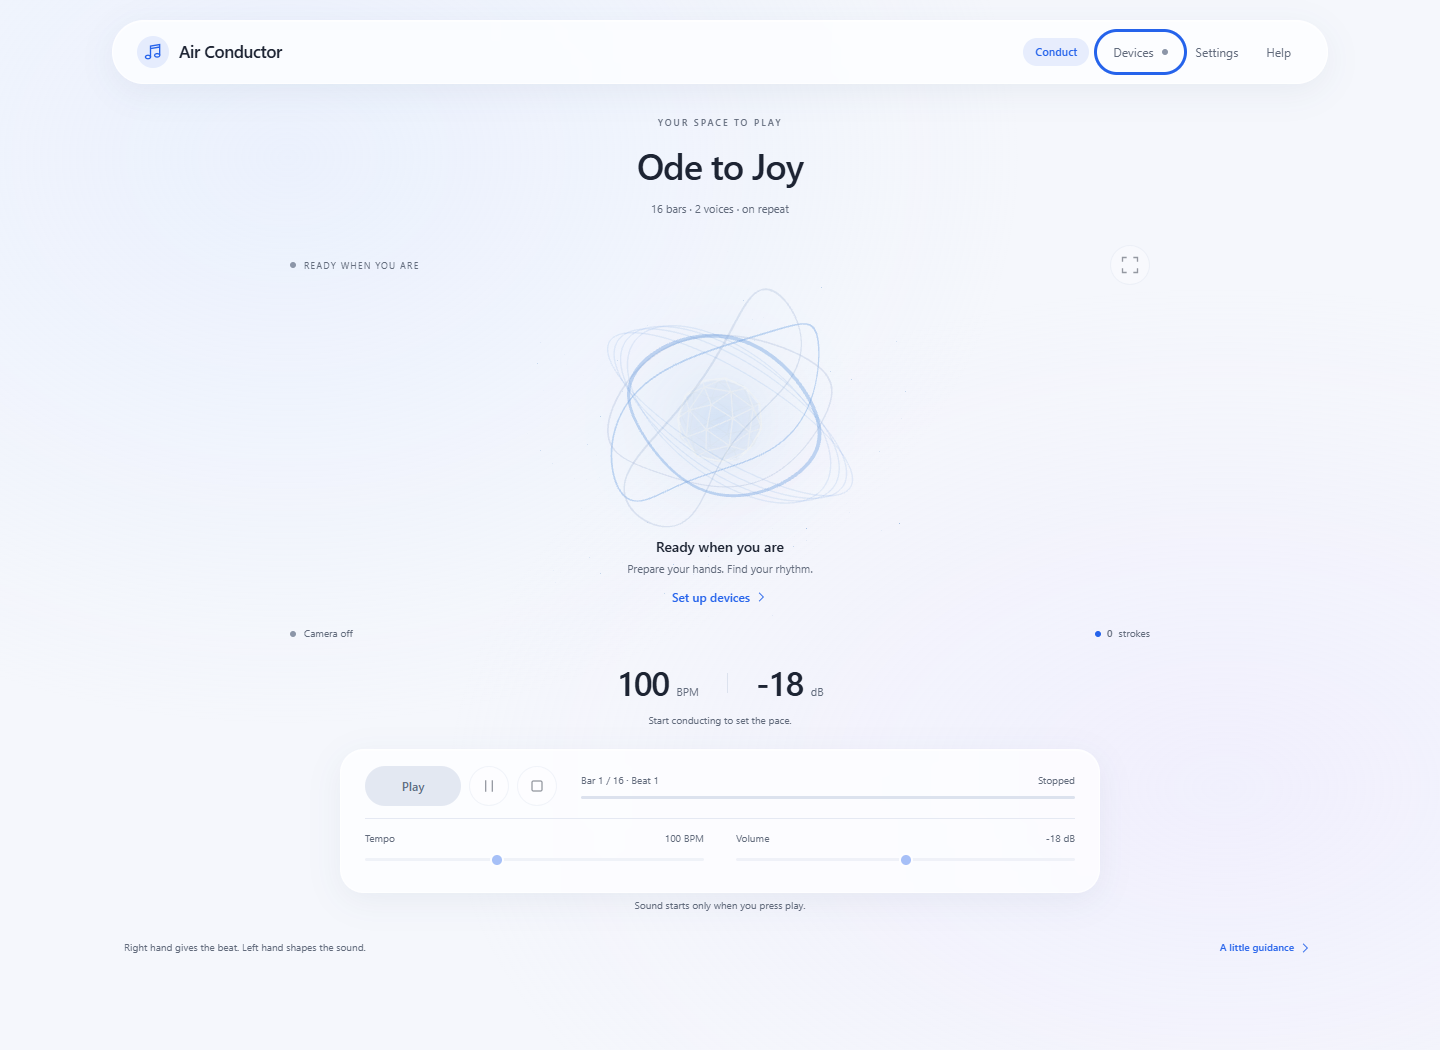
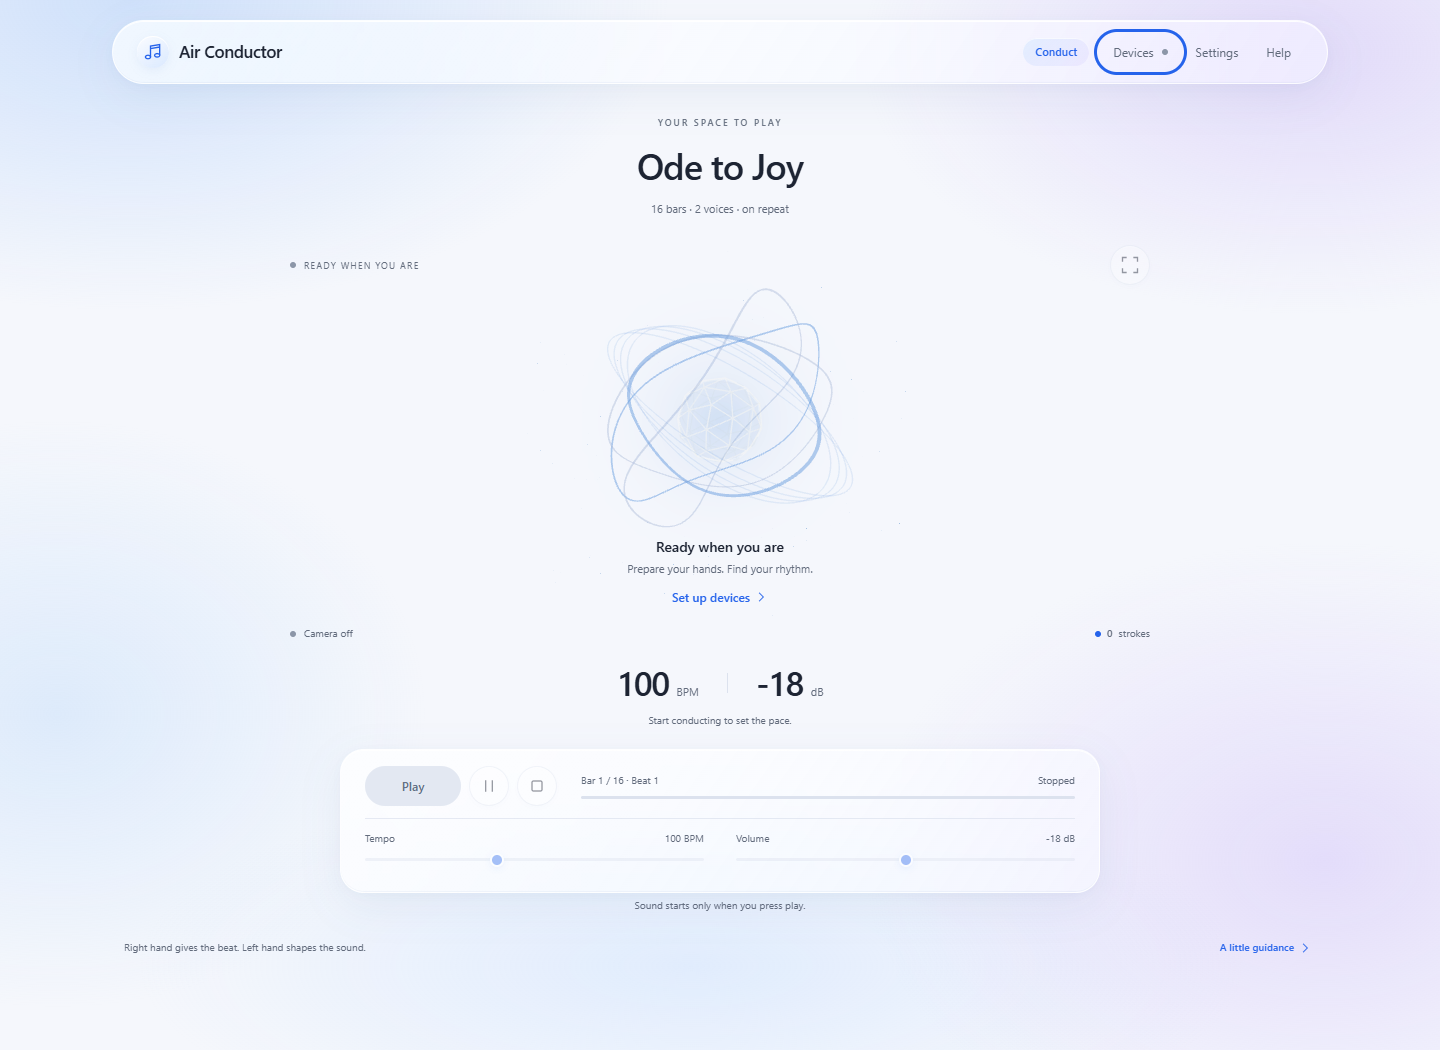
style: enrich glass surfaces and refine studio interactions

Changed region(s): [[0.0, 0.0, 0.1562, 0.061], [0.875, 0.0, 0.9688, 0.0914]]

diff --git a/web/src/style.css b/web/src/style.css
@@ -14,7 +14,12 @@
 
 @layer components {
   :root { @apply font-sans text-ink bg-paper; font-synthesis: none; }
-  body { @apply m-0; background: radial-gradient(ellipse at 20% 15%, #dce8ff66, transparent 45%), radial-gradient(ellipse at 85% 75%, #e8e1ff55, transparent 45%), #f5f7fc; }
+  body { @apply m-0; background:
+    radial-gradient(ellipse 48% 38% at 9% 0%, #aacbfa80, transparent 78%),
+    radial-gradient(ellipse 40% 32% at 91% 5%, #cfbff780, transparent 78%),
+    radial-gradient(ellipse 32% 35% at 4% 68%, #bfdbfa70, transparent 80%),
+    radial-gradient(ellipse 40% 38% at 92% 82%, #d6c8f98c, transparent 80%),
+    radial-gradient(ellipse 48% 22% at 48% 92%, #c2dcff66, transparent 80%), #f5f7fc; }
   * { @apply box-border; }
   [hidden] { display:none!important; }
   button,input,select,textarea { font:inherit; }
@@ -23,18 +28,22 @@
   button,a,input,select { -webkit-tap-highlight-color:transparent; }
   a { @apply text-inherit no-underline; }
   svg { @apply w-5 h-5 shrink-0; }
-  button,a,input,select,textarea { transition: background-color .18s, color .18s, box-shadow .18s; }
+  button,a,input,select,textarea { transition: background-color .18s, color .18s, box-shadow .2s, border-color .2s, transform .2s; }
   :focus-visible { outline:3px solid #2563eb; outline-offset:4px; }
   #app { @apply flow-root max-w-[1280px] mx-auto px-8 min-h-dvh; }
-  .glass { @apply bg-white/75 border border-white/80; backdrop-filter:blur(20px) saturate(135%); box-shadow:0 8px 32px #263b6710, inset 0 1px 0 #ffffffa0; }
+  .glass { @apply border border-white/75; background-color:#ffffff85;
+    background-image:linear-gradient(125deg, #ffffff70, #ffffff00 40%, #d8e5ff18);
+    backdrop-filter:blur(22px) saturate(150%);
+    box-shadow:0 12px 40px #34589313, 0 2px 8px #34589308, inset 0 1px 0 #ffffffed, inset 0 -1px 0 #8ca8d416; }
   .skip-link { @apply fixed top-3 left-3 z-50 px-4 py-2 rounded-lg bg-ink text-white opacity-0 pointer-events-none; }
   .skip-link:focus { @apply opacity-100 pointer-events-auto; }
-  .site-header { @apply relative flex justify-between items-center gap-4 rounded-full px-6 h-16 mt-5; }
+  .site-header { @apply relative flex justify-between items-center gap-4 rounded-full px-6 h-16 mt-5; background-color:#ffffff7a; }
+  .site-header:before,.transport:before { content:''; position:absolute; top:0; left:24px; right:24px; height:1px; pointer-events:none; background:linear-gradient(90deg, transparent, #ffffff, transparent); }
   .brand { @apply flex items-center gap-2.5 font-semibold text-[17px] tracking-[-.4px] whitespace-nowrap; }
-  .brand-mark { @apply grid place-items-center w-8 h-8 rounded-full bg-accent/10 text-accent; }
+  .brand-mark { @apply grid place-items-center w-8 h-8 rounded-full text-accent; background:linear-gradient(145deg, #ffffffb8, #b9d3ff66); box-shadow:inset 0 1px 0 #ffffff, 0 3px 10px #487bcc17; }
   .site-header nav { @apply flex items-center gap-1; }
   .nav-button { @apply flex items-center gap-2 px-3 py-2 text-xs rounded-full text-muted hover:bg-accent/5 hover:text-ink; }
-  .mode-pill { @apply rounded-full bg-accent/10 px-3 py-1.5 text-[11px] font-semibold text-accent mr-2; }
+  .mode-pill { @apply rounded-full px-3 py-1.5 text-[11px] font-semibold text-accent mr-2; background:linear-gradient(135deg, #dbeaffb3, #e4ddff80); box-shadow:inset 0 1px 0 #ffffffb3; }
   .status-dot { @apply inline-block w-1.5 h-1.5 rounded-full bg-[#8c96a8]; }
   .status-dot[data-ready=true],.status-dot[data-live=true],.stage[data-tracked=true] .hand-dot { @apply bg-[#16804a]; }
   .studio { @apply grid justify-items-center text-center pt-8; }
@@ -46,7 +55,7 @@
   .stage canvas { @apply absolute inset-0 w-full h-full pointer-events-none; }
   .stage-top { @apply absolute top-3 left-5 right-5 flex items-center justify-between z-10; }
   .stage-tag { @apply flex items-center gap-2 text-[9px] tracking-[1.2px] text-muted; }
-  .icon-button { @apply w-10 h-10 rounded-full flex items-center justify-center text-ink bg-white/60 border border-line/80 hover:bg-white shrink-0; }
+  .icon-button { @apply w-10 h-10 rounded-full flex items-center justify-center text-ink bg-white/60 border border-line/80 hover:bg-white shrink-0; box-shadow:inset 0 1px 0 #ffffffc0, 0 2px 6px #34589308; }
   .stage-center { @apply absolute left-1/2 -translate-x-1/2 bottom-10 w-[80%] flex flex-col items-center pointer-events-none; }
   .stage-center .eyebrow { @apply hidden; }
   .stage-center h2 { @apply text-sm font-medium tracking-normal m-0; }
@@ -67,19 +76,20 @@
   .readouts span { @apply text-[11px] text-muted; }
   .readout-divider { @apply w-px h-5 bg-line; }
   .control-caption { @apply text-[10px] text-center mt-1; }
-  .transport { @apply w-full max-w-[760px] rounded-[24px] px-6 py-4 grid grid-cols-[auto_1fr] gap-x-6 gap-y-3 mt-5 text-left; }
+  .transport { @apply relative w-full max-w-[760px] rounded-[24px] px-6 py-4 grid grid-cols-[auto_1fr] gap-x-6 gap-y-3 mt-5 text-left; background-color:#ffffff9e; backdrop-filter:blur(20px) saturate(140%); }
   .transport-buttons { @apply flex gap-2 items-center; }
-  .primary { @apply inline-flex items-center justify-center gap-2 rounded-full px-6 py-2.5 bg-accent text-white text-xs font-semibold min-h-10 hover:bg-blue-700; box-shadow:0 3px 12px #2563eb20; }
-  .primary:disabled { @apply opacity-100 bg-[#e3e8f2] text-[#637087] shadow-none; }
+  .primary { @apply inline-flex items-center justify-center gap-2 rounded-full px-6 py-2.5 bg-accent text-white text-xs font-semibold min-h-10 hover:bg-blue-700;
+    background-image:linear-gradient(145deg, #3068e6, #204fd0); box-shadow:0 5px 14px #2563eb30, inset 0 1px 0 #ffffff40, inset 0 -1px 0 #173c931a; }
+  .primary:disabled { @apply opacity-100 bg-[#e3e8f2] text-[#637087] shadow-none; background-image:none; }
   .transport .primary { @apply min-w-[96px]; }
-  .secondary { @apply inline-flex items-center justify-center gap-2 rounded-full px-4 py-2 text-xs font-medium text-accent bg-accent/7 border border-accent/12 min-h-9 hover:bg-accent/12; }
+  .secondary { @apply inline-flex items-center justify-center gap-2 rounded-full px-4 py-2 text-xs font-medium text-accent bg-accent/7 border border-accent/12 min-h-9 hover:bg-accent/12; box-shadow:inset 0 1px 0 #ffffffb3; }
   .text-button { @apply inline-flex items-center justify-center gap-1 text-xs font-medium text-accent bg-transparent px-1 py-2 rounded-lg hover:text-blue-800; }
   .text-button svg { @apply w-3.5 h-3.5; }
   .score-progress { @apply self-center; }
   .score-progress>div { @apply flex justify-between gap-3 text-[10px] text-muted mb-2; }
   progress { @apply appearance-none w-full h-[3px] border-0 rounded-full overflow-hidden block bg-line; }
   progress::-webkit-progress-bar { @apply bg-line; }
-  progress::-webkit-progress-value { @apply bg-accent rounded-full; }
+  progress::-webkit-progress-value { @apply bg-accent rounded-full; background-image:linear-gradient(90deg, #618de9, #3464d8); }
   progress::-moz-progress-bar { @apply bg-accent rounded-full; }
   .desk-sliders { @apply col-span-2 grid grid-cols-2 gap-8 pt-3 border-t border-line/70; }
   .desk-sliders label { @apply flex justify-between text-[10px] text-muted mb-1; }
@@ -87,18 +97,20 @@
   input[type=range] { @apply appearance-none bg-transparent w-full h-5 cursor-pointer m-0; accent-color:#2563eb; }
   input[type=range]:disabled { @apply opacity-40 cursor-default; }
   input[type=range]::-webkit-slider-runnable-track { @apply h-[3px] bg-line rounded-full; }
-  input[type=range]::-webkit-slider-thumb { @apply appearance-none w-3.5 h-3.5 -mt-[5px] bg-accent rounded-full border-2 border-white; }
+  input[type=range]::-webkit-slider-thumb { @apply appearance-none w-3.5 h-3.5 -mt-[5px] bg-accent rounded-full border-2 border-white; box-shadow:0 2px 7px #2563eb30; }
   footer { @apply flex justify-between items-center gap-4 pt-5 pb-5 px-3 text-[10px] text-muted; }
   footer .text-button { @apply text-[10px]; }
-  .window { @apply fixed p-8 w-[min(620px,calc(100vw-40px))] max-h-[min(850px,calc(100dvh-48px))] rounded-[28px] text-ink overflow-y-auto m-auto; background-color:#f9fbffe8; box-shadow:0 28px 100px #192c5530,inset 0 1px 0 white; }
-  .window::backdrop { background:#dce4ef85; }
-  .window[open] { animation:window-in .18s ease-out; }
+  .window { @apply fixed p-8 w-[min(620px,calc(100vw-40px))] max-h-[min(850px,calc(100dvh-48px))] rounded-[28px] text-ink overflow-y-auto m-auto;
+    background-color:#f9fbffb3; background-image:linear-gradient(135deg, #ffffff80, #ffffff00 48%, #dce6ff24);
+    backdrop-filter:blur(26px) saturate(145%); box-shadow:0 32px 100px #192c5530, 0 8px 28px #446aaa14, inset 0 1px 0 #ffffff, inset 0 -1px 0 #ffffff80; }
+  .window::backdrop { background:#1928461f; }
+  .window[open] { animation:window-in .28s cubic-bezier(.22,1,.36,1); }
   .window-heading { @apply flex justify-between items-start gap-5 mb-6; }
   .window-heading h2 { @apply text-[28px] tracking-[-.8px] font-semibold m-0; }
   .window-heading .micro { @apply mt-2 text-xs; }
   .window-close { @apply w-8 h-8 bg-transparent shrink-0; }
   .window-close svg { @apply w-4 h-4; }
-  .setup-tabs { @apply flex justify-between gap-2 rounded-xl bg-white/70 p-1.5 mb-7; }
+  .setup-tabs { @apply flex justify-between gap-2 rounded-xl bg-white/45 p-1.5 mb-7; box-shadow:inset 0 1px 0 #ffffffa0, 0 1px 0 #a7bbdb18; }
   .setup-tabs button { @apply flex items-center gap-2 rounded-lg px-2 py-2 text-[10px] text-muted; }
   .setup-tabs button[aria-current=step] { @apply text-accent bg-accent/8 font-semibold; }
   .setup-page h3,.setup-heading h3 { @apply text-lg font-semibold tracking-[-.3px] m-0; }
@@ -107,7 +119,7 @@
   .mode-switch button svg { @apply w-6 h-6 text-accent; }
   .mode-switch strong { @apply text-base font-semibold; }
   .mode-switch span { @apply text-xs leading-relaxed text-muted; }
-  .mode-switch button[aria-pressed=true] { @apply border-accent/50 bg-accent/5; box-shadow:0 0 0 1px #2563eb33; }
+  .mode-switch button[aria-pressed=true] { @apply border-accent/50; background:linear-gradient(145deg, #dceaff80, #e5e4ff66); box-shadow:0 0 0 1px #2563eb26, 0 6px 20px #487bcc0d, inset 0 1px 0 #ffffff; }
   .setup-heading { @apply mb-5; }
   #app[data-setup-step=mode] .setup-heading,#app[data-setup-step=ready] .setup-heading { @apply hidden; }
   .device-row { @apply flex items-center justify-between gap-5 py-4 border-b border-line/80; }
@@ -123,7 +135,7 @@
   .window-actions>.setup-tools { @apply flex-col items-start gap-0; }
   .window-actions .micro { @apply m-0 text-[10px]; }
   #setup-ready { @apply text-center py-2; }
-  .ready-orb { @apply w-16 h-16 rounded-full bg-accent/10 text-accent grid place-items-center mx-auto mb-5; box-shadow:0 0 35px #2563eb12; }
+  .ready-orb { @apply w-16 h-16 rounded-full text-accent grid place-items-center mx-auto mb-5; background:linear-gradient(140deg, #ffffffb0, #c2d8ff80, #e2d5ff70); box-shadow:0 8px 32px #2563eb20, inset 0 1px 0 #ffffff; }
   .ready-orb svg { @apply w-7 h-7; }
   .preferences-group { @apply border-b border-line/80 pb-6 mb-6; }
   .preferences-group h3 { @apply text-sm font-semibold mb-4 mt-0; }
@@ -145,7 +157,14 @@
   .studio:fullscreen { @apply w-screen h-dvh max-w-none bg-paper pt-8 px-5 overflow-auto; }
   .studio:fullscreen .stage { @apply h-[45dvh]; }
   #app[data-motion=reduced] *,#app[data-motion=reduced] *:before { animation:none!important; transition:none!important; }
-  @keyframes window-in { from { opacity:0; transform:translateY(8px); } to { opacity:1; transform:translateY(0); } }
+  @keyframes window-in { from { opacity:0; transform:translateY(12px) scale(.985); } to { opacity:1; transform:translateY(0) scale(1); } }
+  @media(hover:hover) {
+    .primary:not(:disabled):hover { transform:translateY(-2px); box-shadow:0 8px 22px #2563eb40, inset 0 1px 0 #ffffff50; }
+    .secondary:not(:disabled):hover,.icon-button:not(:disabled):hover { transform:translateY(-1px); box-shadow:0 4px 12px #34589315, inset 0 1px 0 #ffffff; }
+    .mode-switch button:not(:disabled):hover { transform:translateY(-2px); border-color:#89adeb; }
+    .nav-button:hover { box-shadow:inset 0 1px 0 #ffffff70; }
+  }
+  button:not(:disabled):active { transform:translateY(0) scale(.98); }
   @media(max-width:640px) {
     #app { @apply px-4; }
     .site-header { @apply px-3 h-14 mt-3 gap-2; }

diff --git a/web/e2e/studio.spec.js b/web/e2e/studio.spec.js
@@ -50,7 +50,7 @@ test('English initialization opens silently with no camera or serial request', a
 test('compiled Tailwind bounds icons, glass surfaces and desktop content', async ({ page }) => {
   await expect(page.locator('#studio')).toHaveCSS('display', 'grid');
   expect(Math.max(...await page.locator('svg').evaluateAll(icons => icons.map(icon => icon.getBoundingClientRect().width)))).toBeLessThanOrEqual(30);
-  await expect(page.locator('#settings')).toHaveCSS('backdrop-filter', 'blur(20px) saturate(1.35)');
+  await expect(page.locator('#settings')).toHaveCSS('backdrop-filter', 'blur(26px) saturate(1.45)');
   await closeSetup(page);
   expect(await page.evaluate(() => document.documentElement.scrollHeight)).toBeLessThanOrEqual(1050);
 });

diff --git a/web/src/motion-stage.js b/web/src/motion-stage.js
@@ -250,9 +250,9 @@ export class MotionStage {
     this.core.rotation.y = this.phase * .4;
     this.ribbons.forEach((mesh, i) => {
       mesh.rotation.z = i * .35 + this.phase * (i % 2 ? -.16 : .22);
-      mesh.material.opacity = clamp((playing ? .6 : .28) + gain * .15 + energy * .25);
+      mesh.material.opacity = clamp((playing ? .67 : .4) + gain * .15 + energy * .25);
     });
-    this.aura.material.opacity = (playing ? .27 : .12) + gain * .06 + energy * .25;
+    this.aura.material.opacity = (playing ? .3 : .16) + gain * .06 + energy * .25;
     this.core.material.opacity = playing ? .1 : .06;
     this.pulseMeshes.forEach((mesh, i) => {
       const p = pulses[i]; mesh.visible = Boolean(p);

diff --git a/web/src/main.js b/web/src/main.js
@@ -34,7 +34,6 @@ const vision = new VisionSession({ state, control, video: view['camera-video'], 
 experience = new Experience({ state, session, music, control, vision, onChange: update,
   onEvent: (kind, data) => {
     session.recordHostEvent('EXPERIENCE', kind, data);
-    if (kind === 'START') windows?.close();
   } });
 experience.setMode('conduct');
 windows = new StudioWindows({ root, view, state, supported: session.transport.supported, onChange: update });

diff --git a/docs/testing.md b/docs/testing.md
@@ -2,11 +2,15 @@
 
 ## dev-4 glass studio (2026-10-11)
 
+### Glass polish
+
+The follow-up visual change keeps the existing layout and device/music core, with stronger translucent surfaces, static background colors, reflection gradients, button feedback and eased dialog entry. The existing browser style expectation now reflects the 26 px/145% dialog blur. Browser checks also exercise opening Settings immediately after Play; late audio-start completion cannot close that newly opened dialog. Updated screenshots and build/live measurements are preserved in this directory's Git history. No participant test was started.
+
 - All 68 Node checks, 19 headless browser checks and 7 built-app checks pass. Browser checks use actual muted Tone playback, real local WebGL and synthetic device/hand readiness; camera and serial access are stubbed and never open physical devices.
 - Initialization opens silently, readiness gates each Conduct step, and Listen skips hardware. Closing setup keeps binding/connections. Switching dialogs maintains one modal, focus trapping and Escape return. Background WebGL frames stop while a dialog is open, while musical progress continues.
 - Coverage includes source and gesture switches, retained pause position, rewind, reset availability, denied permission recovery, loss/volume-hold feedback, selectable snapshots/CSV, keyboard input, fullscreen exit after readiness loss, system/user reduced motion, palettes, GPU loss/restore, static fallback and resource disposal. The delegated setup-step selector is restricted to buttons so clicking a checkbox cannot trigger an unrelated status refresh before its change event.
 - Desktop plus 320/390/768/1024-pixel layouts and bounded accessibility audits pass. Captures, browser JSON, scene results, production results, rendering measurements and branch/core identity metadata are under `recordings/frontend/dev-4/`. Failed intermediate checkbox diagnostics are retained as development history.
-- The live service on 5173 serves compiled Tailwind with bounded icons and a 360,000-pixel canvas. The latest muted headless sample measured a 16.9 ms p95 animation callback gap, a 74 ms longest task during the steady sampling window and approximately 57 ms pause response. Its startup window included a 1,085 ms task; cold browser/GPU initialization remains a separate cost. These are local headless observations, not physical-device or end-to-end timing guarantees.
+- The live service on 5173 serves compiled Tailwind with bounded icons and a 360,000-pixel canvas. At the initial dev-4 checkpoint (`b9e1bae`), a muted headless sample measured a 16.9 ms p95 animation callback gap, a 74 ms longest task during the steady sampling window and approximately 57 ms pause response. Its startup window included a 1,085 ms task; cold browser/GPU initialization remains a separate cost. Measurements for later changes are recorded in `live-checks.json`. These are local headless observations, not physical-device or end-to-end timing guarantees.
 - Git blob checks verify identical firmware, diagnostics and eleven core control modules on dev-2, dev-3 and dev-4. dev-2 (`98d935b`) and dev-3 (`7638240`) remain unchanged and match their remote heads. No participant action/cue session was started.
 
 ## dev-3 Three.js and Tailwind CSS

diff --git a/docs/architecture.md b/docs/architecture.md
@@ -57,6 +57,8 @@ Stage E requires an explicit camera button and a stable, user-confirmed physical
 
 The light blue/silver background, Tailwind glass surfaces and Glacier/Iris palettes replace the dev-3 visual theme. The Three.js scene retains lazy loading, its framebuffer cap, loss recovery and fallback. Opening a window pauses only background scene rendering; camera inference and control sessions continue. Reset remains accessible even when setup is incomplete. A narrow footer stacks reset/progress to keep Back/Continue reachable on 320-pixel screens.
 
+The glass polish retains this layout and introduces stronger static blue/lilac background fields, layered glass reflections, white edge highlights and soft shadows. Header, transport and dialog surfaces use separate translucent fills and blur strengths (22/20/26 px); dialogs no longer override glass with a 91%-opaque fill. The modal scrim darkens the page slightly without flattening its color. Buttons lift subtly on hover, press feedback is immediate, and dialogs enter with a short eased transform. System/user reduced-motion settings continue to disable transitions. Orbit/aura opacity is slightly stronger; no new geometry, render passes, continuously animated backgrounds or full-page blur are added. Playback completion no longer closes a settings window opened while audio activation was pending.
+
 Synthetic and muted headless checks validate the new presentation. Earlier participant results describe the unchanged control core; no new physical trial was started for dev-4. Development documents and all previous/new recordings remain tracked pending explicit final release cleanup.
 
 ### Previous interface checkpoints
